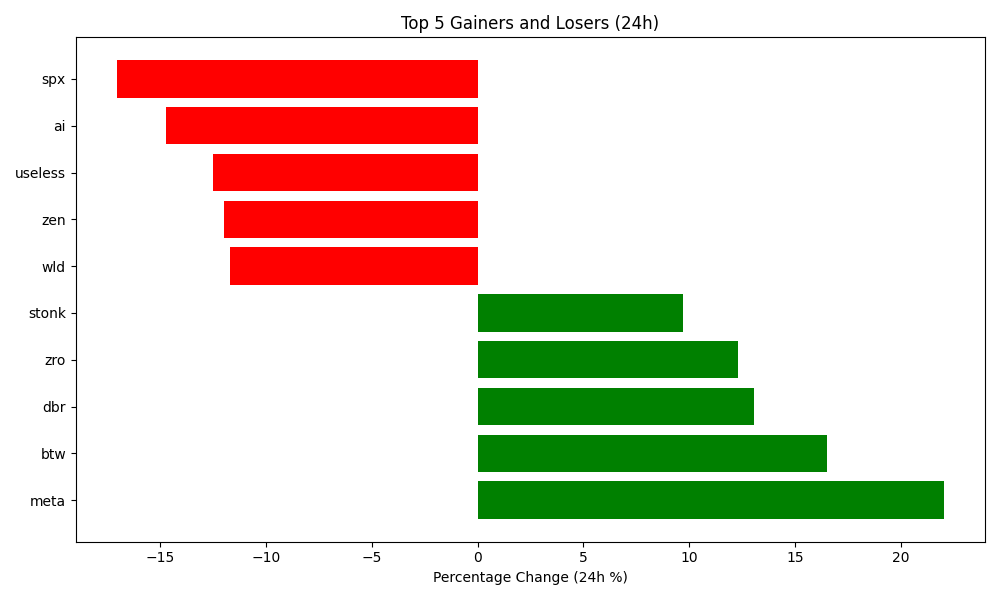
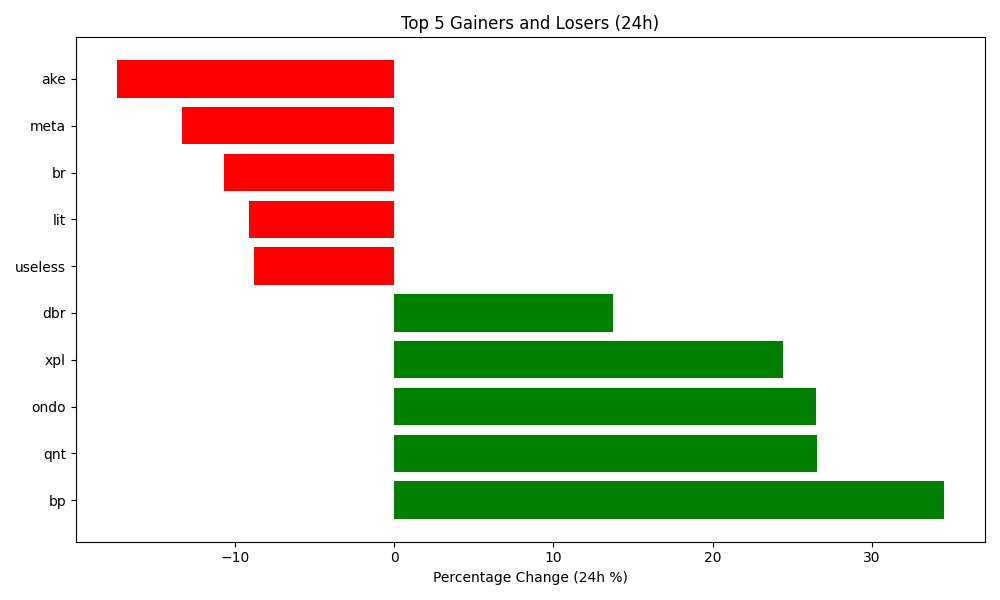
Auto-update crypto data and plot

diff --git a/README.md b/README.md
@@ -4,7 +4,7 @@ Author: Hitesh Agrawal
 This repository automatically tracks the top 5 gaining, top 5 losing, and top 5 highest volume cryptocurrencies in the last 24 hours using the CoinGecko API, Python, Matplotlib, and GitHub Actions updates the below content everyday at midnight.
 
 <!-- START_DYNAMIC_CONTENT -->
-Last updated: 2026-09-24 02:31 UTC
+Last updated: 2026-09-25 02:49 UTC
 
 ![Crypto Movers Plot](crypto_movers_plot.png)
 
@@ -12,33 +12,33 @@ Last updated: 2026-09-24 02:31 UTC
 
 | Rank | Coin | Price Change (24h %) | Volume (USD) | Current Price (USD) |
 | :--: | :--: | :------------------: | :----------: | :-----------------: |
-| 1 | meta | 22.01% | $21,169,888 | $6.7600 |
-| 2 | btw | 16.52% | $27,793,690 | $1.0610 |
-| 3 | dbr | 13.05% | $13,471,372 | $0.0207 |
-| 4 | zro | 12.29% | $210,119,949 | $1.5700 |
-| 5 | stonk | 9.68% | $42,836,736 | $0.3453 |
+| 1 | bp | 34.51% | $26,666,441 | $1.1500 |
+| 2 | qnt | 26.58% | $42,742,109 | $89.8900 |
+| 3 | ondo | 26.49% | $1,155,610,063 | $0.5276 |
+| 4 | xpl | 24.43% | $190,585,811 | $0.1122 |
+| 5 | dbr | 13.75% | $13,762,957 | $0.0236 |
 
 
 **👇 Top 5 Losers (24h)**
 
 | Rank | Coin | Price Change (24h %) | Volume (USD) | Current Price (USD) |
 | :--: | :--: | :------------------: | :----------: | :-----------------: |
-| 1 | spx | -17.02% | $30,560,082 | $0.4317 |
-| 2 | ai | -14.70% | $13,981,120 | $0.2258 |
-| 3 | useless | -12.51% | $78,820,001 | $0.2947 |
-| 4 | zen | -11.98% | $34,730,005 | $7.2500 |
-| 5 | wld | -11.69% | $484,946,954 | $0.4082 |
+| 1 | ake | -17.40% | $40,927,715 | $0.0348 |
+| 2 | meta | -13.31% | $19,823,101 | $5.8600 |
+| 3 | br | -10.66% | $18,816,684 | $0.9593 |
+| 4 | lit | -9.14% | $121,924,909 | $4.9400 |
+| 5 | useless | -8.80% | $45,842,580 | $0.2788 |
 
 
 **💎 Top 5 by Trade Volume (24h)**
 
 | Rank | Coin | Price Change (24h %) | Volume (USD) | Current Price (USD) |
 | :--: | :--: | :------------------: | :----------: | :-----------------: |
-| 1 | usdt | -0.00% | $81,170,790,525 | $0.9998 |
-| 2 | btc | -2.79% | $43,926,364,054 | $84,137.0000 |
-| 3 | usdc | -0.00% | $21,111,410,995 | $0.9999 |
-| 4 | eth | -2.86% | $17,337,092,281 | $2,679.2400 |
-| 5 | xrp | -5.66% | $6,166,103,138 | $1.5000 |
+| 1 | usdt | -0.01% | $68,260,111,048 | $0.9997 |
+| 2 | btc | -0.03% | $37,703,086,857 | $84,321.0000 |
+| 3 | usdc | -0.01% | $19,371,398,646 | $0.9998 |
+| 4 | eth | -0.28% | $14,726,217,561 | $2,679.5800 |
+| 5 | xrp | 1.51% | $4,514,938,871 | $1.5300 |
 
 
 <!-- END_DYNAMIC_CONTENT -->
